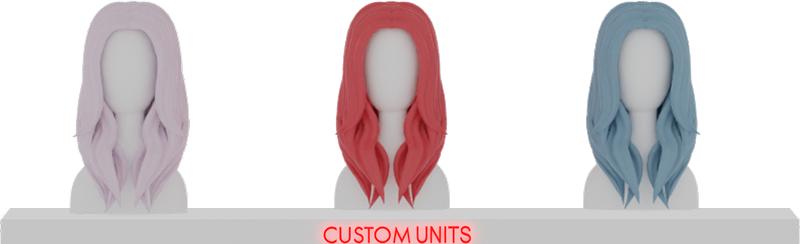
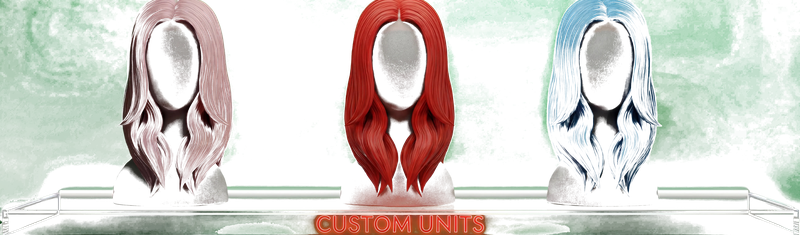
Update lobby shelf graphics from new green-screen JPEGs
Chroma-key and resize HD lace, transparent lace, and custom units
shelves to 800px-wide PNGs. Add lobby:bake-shelves script and cache-bust
version constant with Supabase source URLs.

diff --git a/src/constants/lobbySceneAssets.ts b/src/constants/lobbySceneAssets.ts
@@ -23,9 +23,22 @@ export const LOBBY_ROSE_BACKGROUND_SRC_REMOTE =
   'https://hyycomvcaqxxvyrfupes.supabase.co/storage/v1/object/public/live-preview/LP%20Images/JgMOOyc0S2fwovqjnRGOA_xKRqBrUe.jpeg';
 
 export const LOBBY_ROSE_BACKGROUND_SRC = `/assets/landing-background.png?v=${LOBBY_BACKGROUND_ASSET_VERSION}`;
-export const LOBBY_SHELF_HD_SRC = '/assets/hd-group.png';
-export const LOBBY_SHELF_TRANSPARENT_SRC = '/assets/transparent-group.png';
-export const LOBBY_SHELF_CUSTOM_SRC = '/assets/custom-group.png';
+
+/** Bump when re-baking shelf PNGs (`npm run lobby:bake-shelves`). */
+export const LOBBY_SHELF_ASSET_VERSION = 'RQY7-2fkX-AKow';
+
+export const LOBBY_SHELF_HD_SRC_REMOTE =
+  'https://hyycomvcaqxxvyrfupes.supabase.co/storage/v1/object/public/live-preview/LP%20Images/RQY7MNHaS7mk5m9RKKMd__Qtm01P5p.jpeg';
+
+export const LOBBY_SHELF_TRANSPARENT_SRC_REMOTE =
+  'https://hyycomvcaqxxvyrfupes.supabase.co/storage/v1/object/public/live-preview/LP%20Images/2fkXzNmBPwDypFe2xv4P__QY7xpaxh.jpeg';
+
+export const LOBBY_SHELF_CUSTOM_SRC_REMOTE =
+  'https://hyycomvcaqxxvyrfupes.supabase.co/storage/v1/object/public/live-preview/LP%20Images/AKowa_ZYGg6DxNa2oiwsU_aMURAC98.jpeg';
+
+export const LOBBY_SHELF_HD_SRC = `/assets/hd-group.png?v=${LOBBY_SHELF_ASSET_VERSION}`;
+export const LOBBY_SHELF_TRANSPARENT_SRC = `/assets/transparent-group.png?v=${LOBBY_SHELF_ASSET_VERSION}`;
+export const LOBBY_SHELF_CUSTOM_SRC = `/assets/custom-group.png?v=${LOBBY_SHELF_ASSET_VERSION}`;
 export const LOBBY_CASE_SRC = '/assets/CASE.png';
 export const LOBBY_CASE_REGISTER_SRC = '/assets/REGISTER.png';
 export const LOBBY_CASE_PHONE_DOWNLOAD_SRC = '/assets/lobby-phone.png';
